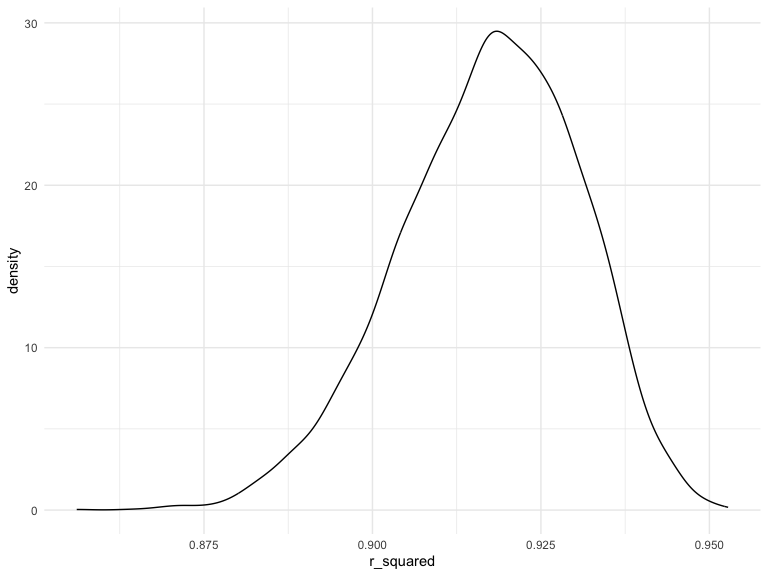
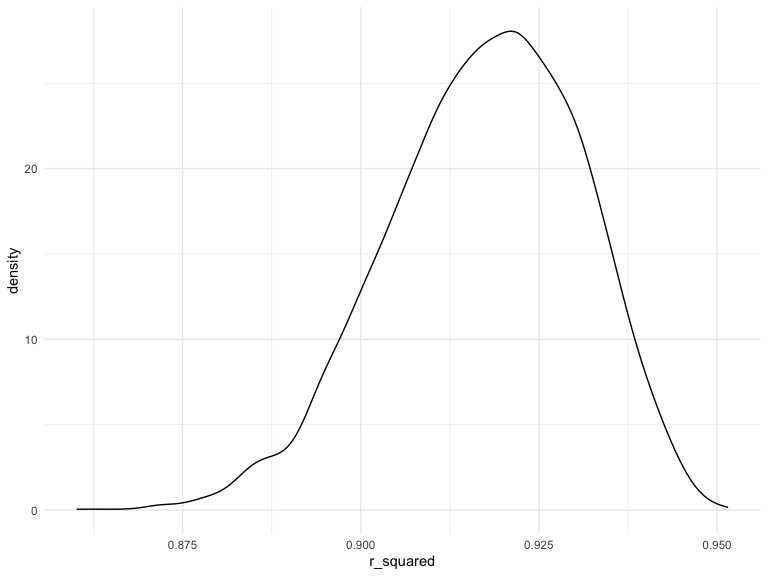
Problem 3 - Model 1 plots

diff --git a/p8105_hw6_yy3421.md b/p8105_hw6_yy3421.md
@@ -136,7 +136,7 @@ boot_results |>
     ## # A tibble: 1 × 4
     ##   ci_lower_r ci_upper_r ci_lower_beta01 ci_upper_beta01
     ##        <dbl>      <dbl>           <dbl>           <dbl>
-    ## 1      0.889      0.940            2.06            2.14
+    ## 1      0.888      0.941            2.06            2.14
 
 ## Problem 3
 
@@ -152,13 +152,15 @@ birthweight_df =
       2 ~ "female"
     ),
     babysex = as.factor(babysex),
+    babysex = fct_relevel(babysex, "female"),
     malform = case_match(
       malform, 
       0 ~ "absent",
       1 ~ "present"
     ),
     malform = as.factor(malform)
-  )
+  ) |> 
+  select(bwt, blength, bhead, gaweeks, babysex, malform)
 ```
 
     ## Rows: 4342 Columns: 20
@@ -169,25 +171,37 @@ birthweight_df =
     ## ℹ Use `spec()` to retrieve the full column specification for this data.
     ## ℹ Specify the column types or set `show_col_types = FALSE` to quiet this message.
 
-``` r
-birthweight_df |> 
-  ggplot(aes(x = bhead, y = bwt)) + 
-  geom_point(alpha = .5)
-```
-
-<img src="p8105_hw6_yy3421_files/figure-gfm/distribution-1.png" width="90%" />
-
 ### Propose a linear regression model
 
 ``` r
-linear_mod_1 = lm(bwt ~ blength + babysex + malform, data = birthweight_df) 
+linear_mod_1 = lm(bwt ~ blength + babysex + malform, data = birthweight_df)
 ```
+
+``` r
+birthweight_df |> 
+  modelr::add_predictions(linear_mod_1) |> 
+  modelr::add_residuals(linear_mod_1) |> 
+  ggplot(aes(x = malform, y = resid)) + geom_violin() 
+```
+
+<img src="p8105_hw6_yy3421_files/figure-gfm/unnamed-chunk-2-1.png" width="90%" />
+
+``` r
+birthweight_df |> 
+  modelr::add_predictions(linear_mod_1) |> 
+  modelr::add_residuals(linear_mod_1) |> 
+  ggplot(aes(x = blength, y = bwt)) + 
+  geom_point(alpha = .5)+
+  geom_line(aes(y = pred))
+```
+
+<img src="p8105_hw6_yy3421_files/figure-gfm/unnamed-chunk-3-1.png" width="90%" />
 
 ### One using length at birth and gestational age as predictors (main effects only)
 
 ``` r
 linear_mod_2 = 
-  lm(bwt ~ blength + gaweeks, data = birthweight_df)
+  lm(bwt ~ blength + gaweeks, data = birthweight_df) 
 ```
 
 \###One using head circumference, length, sex, and all interactions
@@ -222,7 +236,7 @@ cv_df =
 cv_df = 
   cv_df |> 
   mutate(
-    mod_1 = map(train, \(df) lm(bwt ~ blength + babysex + malform, data = df)),
+    mod_1 = map(train, \(df) lm(bwt ~ blength + babysex + malform + bhead*blength*babysex, data = df)),
     mod_2 = map(train, \(df) lm(bwt ~ blength + gaweeks, data = df)),
     mod_3  = map(train, \(df) lm(bwt ~ bhead + blength + babysex + bhead*blength*babysex, data = df))
     ) |> 
@@ -244,4 +258,4 @@ cv_df |>
   ggplot(aes(x = model, y = rmse)) + geom_violin()
 ```
 
-<img src="p8105_hw6_yy3421_files/figure-gfm/unnamed-chunk-6-1.png" width="90%" />
+<img src="p8105_hw6_yy3421_files/figure-gfm/unnamed-chunk-8-1.png" width="90%" />
